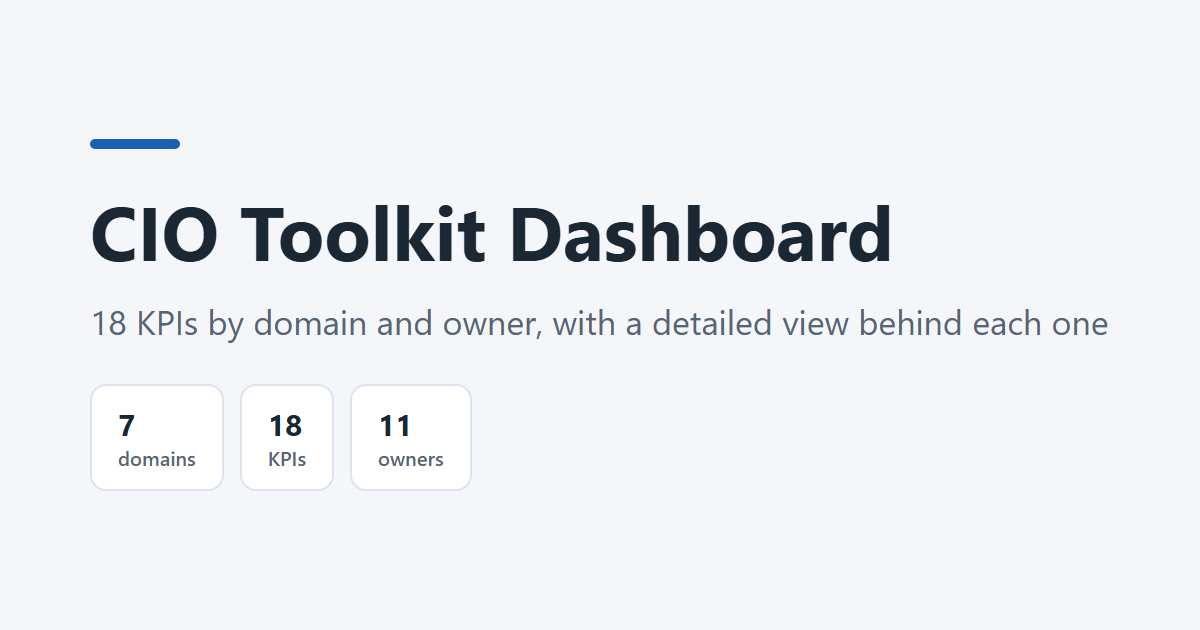
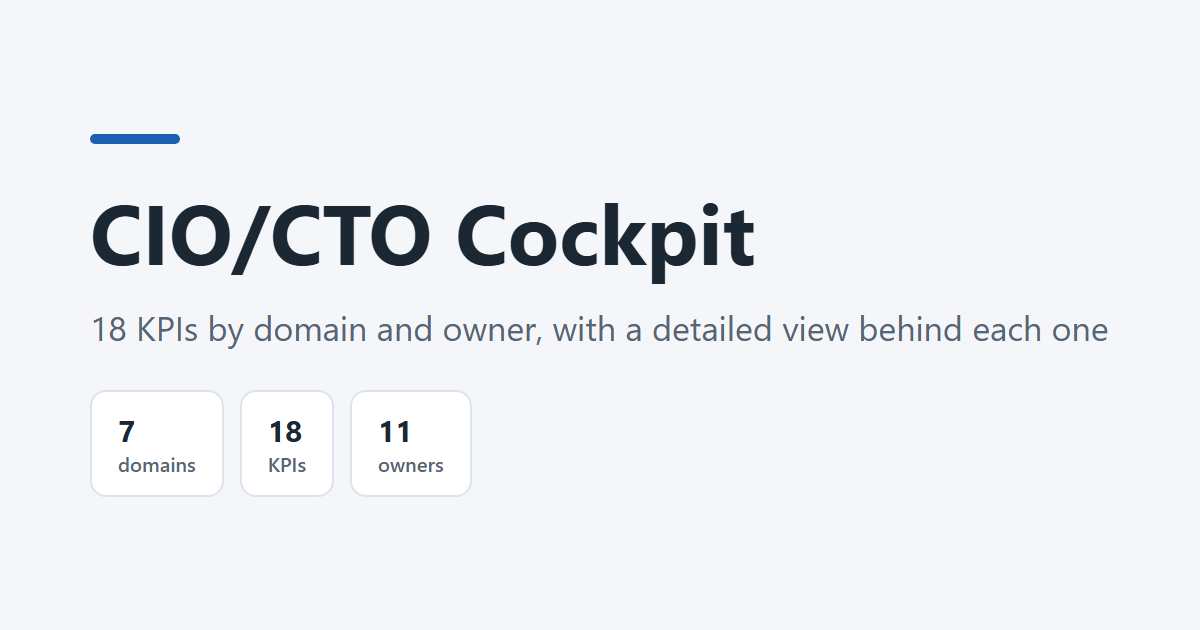
Rename to CIO/CTO Cockpit

diff --git a/index.html b/index.html
@@ -3,12 +3,12 @@
 <head>
 <meta charset="utf-8">
 <meta name="viewport" content="width=device-width, initial-scale=1">
-<title>CIO Toolkit Dashboard</title>
+<title>CIO/CTO Cockpit</title>
 <meta name="description" content="18 KPIs for CIO decisions, grouped by domain and owner, with a detailed view behind each one. Sample data.">
 <meta name="theme-color" content="#f4f6fa">
 <meta property="og:type" content="website">
-<meta property="og:site_name" content="CIO Toolkit">
-<meta property="og:title" content="CIO Toolkit Dashboard">
+<meta property="og:site_name" content="CIO/CTO Cockpit">
+<meta property="og:title" content="CIO/CTO Cockpit">
 <meta property="og:description" content="18 KPIs for CIO decisions, grouped by domain and owner, with a detailed view behind each one. Sample data.">
 <meta property="og:url" content="https://mittal091.github.io/cio-toolkit-dashboard-v6/">
 <meta property="og:image" content="https://mittal091.github.io/cio-toolkit-dashboard-v6/og-image.png">
@@ -24,7 +24,7 @@
 <a class="skip" href="#view">Skip to the KPIs</a>
 <header class="top">
   <div class="wrap top-in">
-    <h1>CIO Toolkit Dashboard</h1>
+    <h1>CIO/CTO Cockpit</h1>
     <div class="filters">
       <label>Owner<select id="owner"></select></label>
     </div>

diff --git a/app.js b/app.js
@@ -61,7 +61,7 @@ function openDetail(id) {
   const dlg = $('detail');
   if (!dlg.open) (dlg.showModal ? dlg.showModal() : dlg.setAttribute('open', ''));
   dlg.scrollTop = 0;
-  document.title = `${k.name} · CIO Toolkit Dashboard`;
+  document.title = `${k.name} · CIO/CTO Cockpit`;
   syncHash();
 }
 function closeDetail() {
@@ -70,7 +70,7 @@ function closeDetail() {
 }
 $('detail').addEventListener('close', () => {
   state.kpi = '';
-  document.title = 'CIO Toolkit Dashboard';
+  document.title = 'CIO/CTO Cockpit';
   syncHash();
   if (lastFocus && document.contains(lastFocus)) lastFocus.focus();
 });

diff --git a/README.md b/README.md
@@ -1,4 +1,4 @@
-# CIO Toolkit Dashboard (v6)
+# CIO/CTO Cockpit (v6)
 
 18 PPIs from the Excel "CIO Toolkit Final PPIs", grouped by domain, with a detailed view behind each PPI. All numbers are sample data.
 
